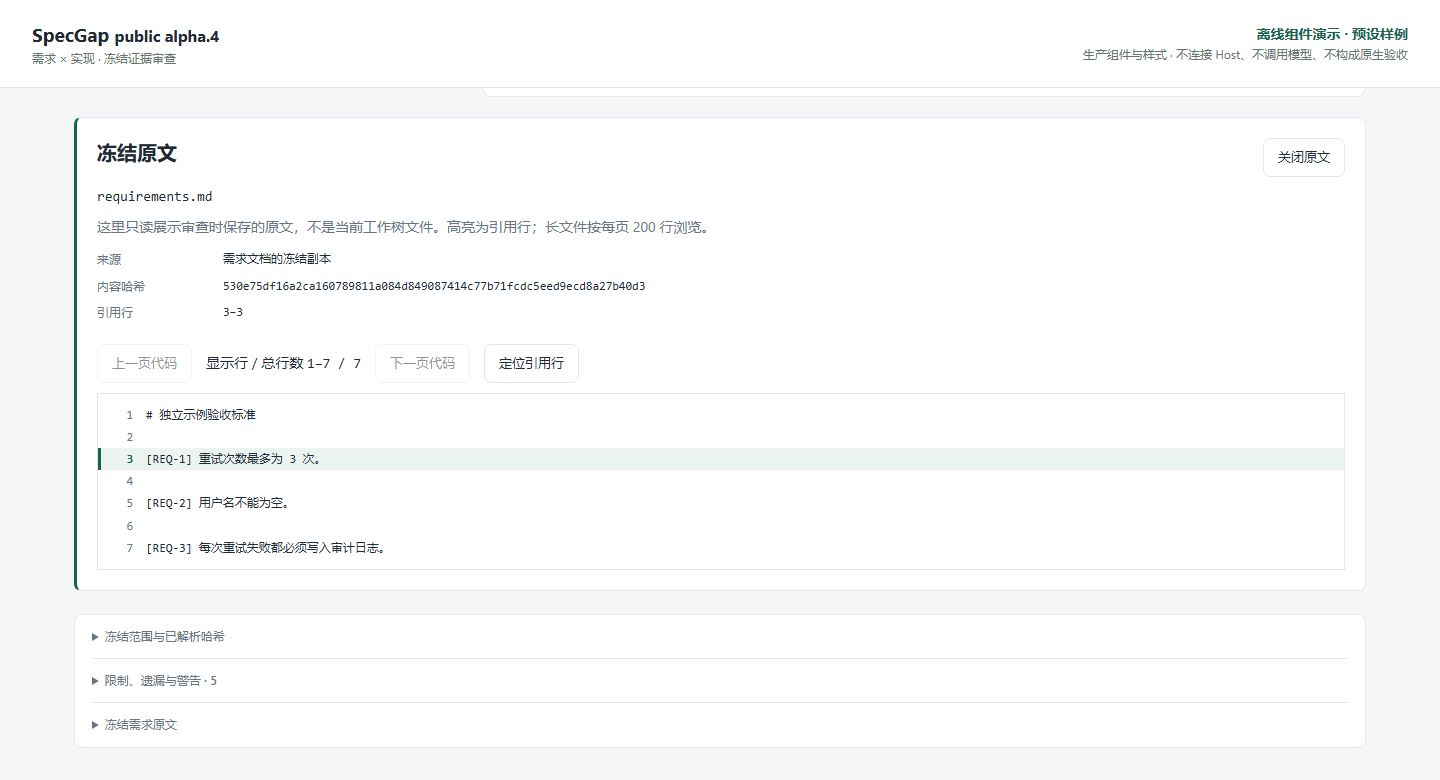
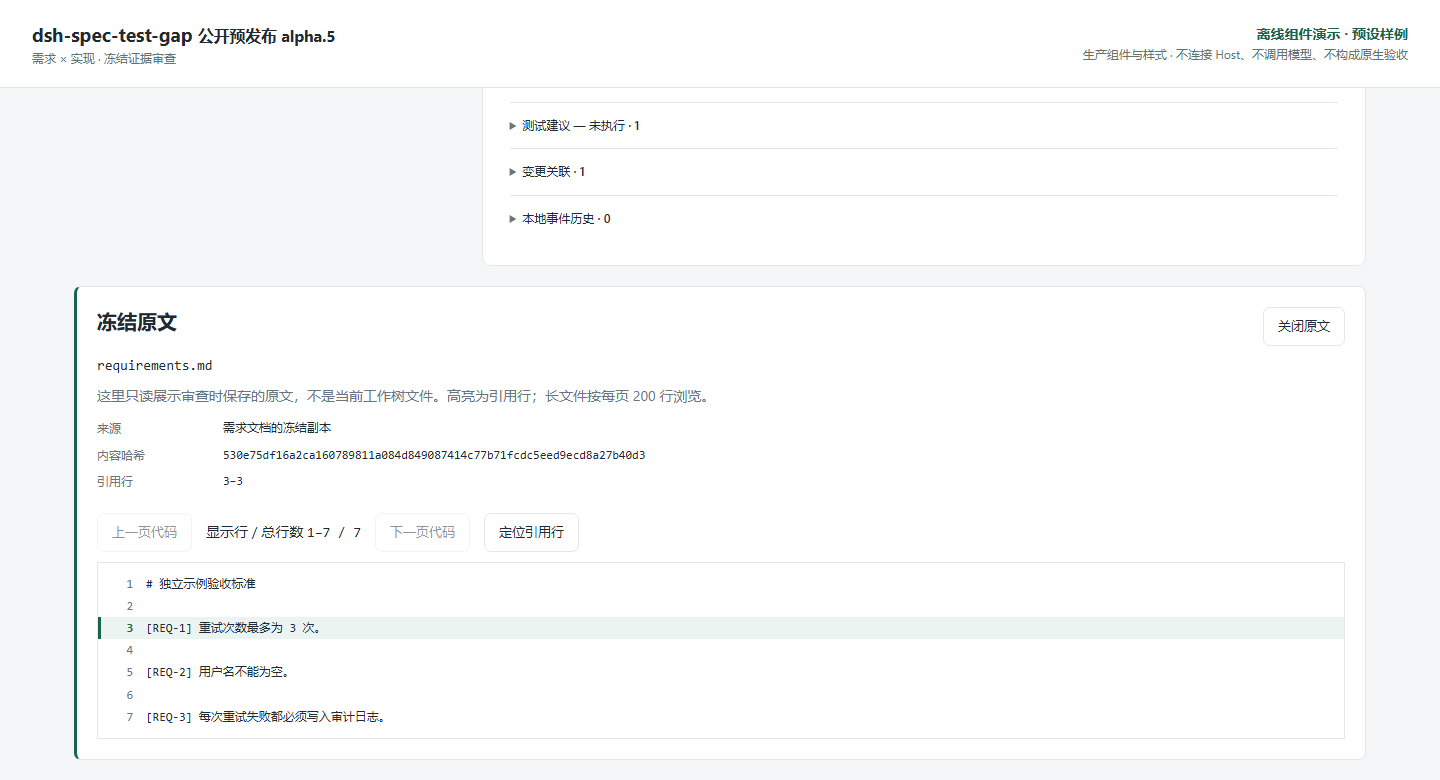
发布 dsh-spec-test-gap 0.2.0-alpha.5：中文文档、截图与 Windows 路径修复

diff --git a/plugins/dsh-specgap/src/client/Workbench.jsx b/plugins/dsh-specgap/src/client/Workbench.jsx
@@ -43,7 +43,7 @@ export function Workbench({t,back,openReport,initialSelection,onSelectionChange}
   const selectionKey=JSON.stringify(state.selection),busy=Object.entries(state.busy).filter(([,v])=>v).map(([k])=>k),m=state.mutation;
   const locked=!!m||state.foreignPending,view=state.view;
   return <section className="specgap" aria-labelledby="specgap-title">
-    <header className="sg-header"><div className="sg-brand"><span className="sg-brand-mark" aria-hidden="true">S</span><div><h1 id="specgap-title">SpecGap</h1><span className="sg-muted">{t('workbenchLabel')}</span></div></div>
+    <header className="sg-header"><div className="sg-brand"><span className="sg-brand-mark" aria-hidden="true">S</span><div><h1 id="specgap-title">{t('panel')}</h1><span className="sg-muted">{t('workbenchLabel')}</span></div></div>
       <div className="sg-header-context"><Field label={t('workspace')}><select value={workspaceId} onChange={e=>{client.select({workspaceId:e.target.value});setPage('new');}}><option value="">{t('choose')}</option>{workspaceId&&!workspace&&<option value={workspaceId}>{workspaceId} · {t('unavailable')}</option>}{data?.workspaces.map(w=><option key={w.id} value={w.id}>{w.title||w.id}</option>)}</select></Field></div>
       <button onClick={back}>{t('back')}</button>
     </header>

diff --git a/tests/test_util.py b/tests/test_util.py
@@ -4,7 +4,7 @@ import unittest
 from pathlib import Path
 
 from specgap.errors import SpecGapError
-from specgap.util import canonical_hash, physical_lines, read_json, safe_text, strict_loads, write_json
+from specgap.util import canonical_hash, physical_lines, read_json, safe_path, safe_text, strict_loads, write_json
 
 
 class UtilTests(unittest.TestCase):
@@ -40,6 +40,20 @@ class UtilTests(unittest.TestCase):
                                ('a\u2028b\u2029c\fd\x85e', ['a\u2028b\u2029c\fd\x85e'])]:
             with self.subTest(text=repr(text)):
                 self.assertEqual(physical_lines(text), expected)
+
+    @unittest.skipUnless(sys.platform == 'win32', 'Windows short-path aliases only')
+    def test_short_path_alias_is_canonical_before_output_boundary_checks(self):
+        import ctypes
+
+        with tempfile.TemporaryDirectory(prefix='specgap-long-path-') as tmp:
+            root = Path(tmp).resolve()
+            buffer = ctypes.create_unicode_buffer(32768)
+            length = ctypes.windll.kernel32.GetShortPathNameW(str(root), buffer, len(buffer))
+            if not length or length >= len(buffer) or Path(buffer.value) == root:
+                self.skipTest('8.3 short-path alias unavailable on this volume')
+            alias = Path(buffer.value)
+            self.assertEqual(safe_path(alias / 'reports' / 'run'), root / 'reports' / 'run')
+            self.assertFalse((root / 'reports').exists())
 
     def test_markup_is_not_executable_or_a_live_link(self):
         result = safe_text('<script>alert(1)</script>\n[click](https://evil.test)\n```\n# fake')

diff --git a/src/specgap/util.py b/src/specgap/util.py
@@ -85,7 +85,9 @@ def safe_path(path) -> Path:
             continue
         if stat.S_ISLNK(info.st_mode) or getattr(info, "st_file_attributes", 0) & 0x400:
             raise SpecGapError("Symlink or reparse-point artifact path is not allowed")
-    return path
+    # Expand Windows 8.3 aliases only after rejecting reparse points; containment
+    # checks must compare canonical paths even when the destination is not created.
+    return path.resolve()
 
 
 def read_bytes(path, max_bytes=MAX_ARTIFACT_BYTES) -> bytes:

diff --git a/README.md b/README.md
@@ -1,20 +1,20 @@
-# SpecGap · 需求与代码双向对照
+# dsh-spec-test-gap · 需求与代码双向对照测试助手
 
 **需求有没有落实？代码是否改变了未被要求的行为？把判断落到可追溯的 Git 证据，再交给人确认。**
 
-SpecGap 是 [DeepSeek Harness（DSH）](https://github.com/deepseek-ai/deepseek-harness) 的原生 QA 工作台，也提供独立 Python CLI。它把独立需求、已提交代码和人工处理记录放进同一次审查，避免只盯着 diff、或把“开发说是有意的”误当成“产品已经批准”。
+dsh-spec-test-gap 是 [DeepSeek Harness（DSH）](https://github.com/deepseek-ai/deepseek-harness) 的原生 QA 工作台，也提供独立 Python CLI。它把独立需求、已提交代码和人工处理记录放进同一次审查，避免只盯着 diff、或把“开发说是有意的”误当成“产品已经批准”。
 
-[下载安装](https://github.com/homerlamlam/specgap/releases/tag/plugin-v0.2.0-alpha.4) · [完整使用指南](<docs/dsh-plugin.zh-CN.md>) · [功能截图](<docs/screenshots.md>) · [技术原理](<docs/architecture.md>) · [验证说明](<docs/verification.md>)
+[预发布下载](https://github.com/homerlamlam/dsh-spec-test-gap/releases/tag/plugin-v0.2.0-alpha.5) · [完整使用指南](<docs/dsh-plugin.zh-CN.md>) · [实际组件离线截图](<docs/screenshots.md>) · [技术原理](<docs/architecture.md>) · [本版验证记录](<docs/verification.md>)
 
-> **当前为实验性预发布：插件 0.2.0-alpha.4，CLI/core 0.1.0。** 可以体验流程，不能当自动发布门禁。离线样例中的 3 个问题是预设示例，不是模型发现；真实项目上的模型准确率、召回率尚未测量。
+> **本次为首次正式公开预发布：插件 dsh-spec-test-gap 0.2.0-alpha.5，CLI/core 仍为 0.1.0。** alpha.4 仅有公开源码标签，无正式 Release。它不是自动测试运行器，不能当自动发布门禁。离线样例中的 3 个问题是预设示例，不是模型发现；真实项目上的模型准确率、召回率尚未测量。
 
 ![发现列表与冻结证据](<docs/images/01-findings-evidence.png>)
 
-*实际生产组件的离线浏览器演示；三个问题均为预设样例，不代表 AI 效果或已登录 DSH 的完整端到端验收。查看[全部截图及边界](<docs/screenshots.md>)。*
+*此图为 0.2.0-alpha.5 实际生产组件的离线浏览器截图；来自离线预设 fixture，三个问题均为预设样例，不代表 AI 效果或已登录 DSH 的完整端到端验收。查看[全部截图及边界](<docs/screenshots.md>)。*
 
 ## 你能用它做什么
 
-| 场景 | SpecGap 的做法 |
+| 场景 | dsh-spec-test-gap 的做法 |
 | --- | --- |
 | 需求写了，但实现可能没改 | 从需求出发检查冻结的 head 上下文，也能引用未改动文件 |
 | 分支改了需求没提的行为 | 从基线到 head 逐项审查变更，追问需求依据或产品意图 |
@@ -35,21 +35,27 @@ SpecGap 是 [DeepSeek Harness（DSH）](https://github.com/deepseek-ai/deepseek-
 | Git | 2.31 或更新版本，可被 DSH 进程找到 |
 | 运行方式 | 本机所有者、已注册的本地工作区；不支持 LiveShare |
 
-1. 到 [Release](https://github.com/homerlamlam/specgap/releases/tag/plugin-v0.2.0-alpha.4) 下载插件安装包和 SHA-256 校验清单。**不需要另装 Python CLI。**
+1. 从[本次预发布 Release](https://github.com/homerlamlam/dsh-spec-test-gap/releases/tag/plugin-v0.2.0-alpha.5) 下载 `dsh-spec-test-gap-0.2.0-alpha.5.tgz` 和 SHA-256 校验清单。标签为 `plugin-v0.2.0-alpha.5`。**不需要另装 Python CLI。**
 2. 校验下载包，确认名称与版本。PowerShell 示例：
 
    ```powershell
-   Get-FileHash -LiteralPath 'C:\Downloads\specgap-dsh-plugin-0.2.0-alpha.4.tgz' -Algorithm SHA256
+   Get-FileHash -LiteralPath 'C:\Downloads\dsh-spec-test-gap-0.2.0-alpha.5.tgz' -Algorithm SHA256
    ```
 
 3. 在现有 DSH 页面左侧进入 **插件 → 添加插件**，在 **包名或地址** 填写下载包在 **DSH Host 所在机器**上的绝对路径，点击 **安装**。
-4. 安装完成后点击 **立即启用**，检查实际版本与警告；刷新同一 DSH 页面，在导航中打开 **SpecGap**。
+4. 安装完成后点击 **立即启用**，检查包名 **dsh-spec-test-gap**、版本 **0.2.0-alpha.5** 与警告；刷新同一 DSH 页面，在导航中打开 **dsh-spec-test-gap**。
 
-不要把仓库首页地址当作可安装包，也不要直接填写 npm 包名：**本次通过 GitHub Release 分发，不声称已发布 npm/PyPI。** 安装影响当前 profile 的全部会话；不应为了安装跳过版本兼容检查。排障、升级和卸载见[完整指南](<docs/dsh-plugin.zh-CN.md>)。
+不要把仓库首页地址当作可安装包，也不要直接填写 npm 包名：**本次通过 GitHub Release 分发，不发布到 npm/PyPI。** 安装影响当前 profile 的全部会话；不应为了安装跳过版本兼容检查。
+
+**从旧版升级：先卸载旧 SpecGap 插件（`@specgap/dsh-plugin`），再安装新版。** 保留 `data/specgap`，不要因更名删除或改名；保留数据不等于完成备份，也不是自动迁移或恢复保证。排障、升级和卸载见[完整指南](<docs/dsh-plugin.zh-CN.md>)。
+
+### 名称与兼容内部标识
+
+公开品牌展示名与插件包名均为 **dsh-spec-test-gap**，中文副标题为 **需求与代码双向对照测试助手**。Python 模块/CLI 命令 `specgap`、源码目录 `plugins/dsh-specgap`、数据目录 `data/specgap` 与 API 命名空间 `specgap` 保留为兼容内部标识，不应按品牌名盲替命令或路径。CLI/core 仍为 **0.1.0**，桥接协议仍为 **1**。
 
 ## 3 分钟体验
 
-1. 在 SpecGap 选择一个已注册工作区，点击 **创建离线样例**。
+1. 在 dsh-spec-test-gap 选择一个已注册工作区，点击 **创建离线样例**。
 2. 查看 3 个预设问题：重试次数与需求冲突、未声明的用户名限制、缺少审计日志实现证据。
 3. 切换需求/变更映射，点击 **查看冻结原文** 或 **查看冻结全文**，核对路径、行号、基线/分支与引文。
 4. 展开人工处理，记录回复；必要时由对应本地声明角色记录决议。插件不会替你执行测试。
@@ -72,8 +78,8 @@ SpecGap 是 [DeepSeek Harness（DSH）](https://github.com/deepseek-ai/deepseek-
 要求 Python 3.11+、Git 2.31+。从源码安装：
 
 ```sh
-git clone https://github.com/homerlamlam/specgap.git
-cd specgap
+git clone https://github.com/homerlamlam/dsh-spec-test-gap.git
+cd dsh-spec-test-gap
 python -m pip install -e .
 python -m specgap demo --out ../specgap-demo
 python -m specgap status --run ../specgap-demo/run
@@ -100,11 +106,11 @@ python -m specgap report --run ../specgap-demo/run
 - 只读已提交对象，不 checkout、不 fetch、不执行被审项目代码/测试，也不自动修复或合并。
 - 本地角色是自声明，不是企业身份认证；哈希链用于发现完整性变化，不保证抵抗本机管理员篡改。
 - 数据与准确模型请求审计保存在 profile 的插件私有存储中，不是原生 Session 日志。报告和截图可能包含源码，分享前自行检查。
-- 当前验证分层、实际结果和未验证范围见[验证说明](<docs/verification.md>)。不要把单元测试、包校验或截图当成模型效果证明。
+- [本版验证记录](<docs/verification.md>)列出本次执行结果与未验证范围；[实际组件离线截图](<docs/screenshots.md>)不替代已登录 DSH 的完整端到端验收。不要把单元测试、包校验或截图当成模型效果证明。
 
 ## 开发与反馈
 
-[参与贡献](<CONTRIBUTING.md>) · [变更记录](<CHANGELOG.md>) · [安全报告](<SECURITY.md>) · [问题反馈](https://github.com/homerlamlam/specgap/issues)
+[参与贡献](<CONTRIBUTING.md>) · [变更记录](<CHANGELOG.md>) · [安全报告](<SECURITY.md>) · [问题反馈](https://github.com/homerlamlam/dsh-spec-test-gap/issues)
 
 采用 [MIT 许可](<LICENSE>)。独立实现；问题研究参考过 [cc-rsg](https://github.com/daishir0/cc-rsg)，未复制或内嵌其源码，见[来源说明](<docs/provenance.md>)。
 

diff --git a/docs/dsh-plugin.zh-CN.md b/docs/dsh-plugin.zh-CN.md
@@ -1,14 +1,18 @@
-# SpecGap DSH 插件 · 安装与使用
+# dsh-spec-test-gap DSH 插件 · 安装与使用
 
-[项目首页](https://github.com/homerlamlam/specgap) · [验证与手工验收](<dsh-plugin-verification.md>)
+**需求与代码双向对照测试助手**
 
-候选版本 **@specgap/dsh-plugin 0.2.0-alpha.4** 增加需求出处与冻结代码阅读，仍是本地实验版。
+[项目首页](https://github.com/homerlamlam/dsh-spec-test-gap) · [验证与手工验收](<dsh-plugin-verification.md>)
+
+**dsh-spec-test-gap 0.2.0-alpha.5** 是首次正式公开预发布：公开仓库、插件包与界面展示名统一更名，保留需求出处与冻结代码阅读等既有能力，仍是本地实验版。alpha.4 仅有公开源码标签，无正式 Release，未公开分发对应安装包。
 
 **查看来源：** 问题的需求关联、需求映射与变更映射均显示原文路径/行号，点击「查看冻结原文」可定位高亮。代码证据可展开前后各十行，或点击「查看冻结全文」按每页 200 行浏览；「定位引用行」返回引用，「关闭原文」回到入口。文件来自审查冻结副本，展示对应基线/分支的提交与内容哈希，不读取当前工作树，也不伪造远程链接。旧记录只要包含完整来源即可使用；来源缺失或不匹配时保留引用并提示。链接仅用于审查内部导航，不是跨会话分享地址。
 
 新增示例的需求、问题、测试建议与演示回复，以及报告标题、状态和说明统一中文。模型请求明确约束人类可读字段使用简体中文，但未实际调用提供方验证语言遵循效果。代码引用、机器字段及历史记录不翻译覆盖；需要保留的非中文原文在代码块中展示。升级后重新创建离线示例即可体验，不会自动重写旧示例。
 
-独立 Python CLI 仍为 **0.1.0**，协议仍为 **1**。这是 GitHub 实验性预发布，不是自动发布批准。源码/打包测试、实际界面操作与模型有效性是不同的验证层次；公开结果见[验证说明](https://github.com/homerlamlam/specgap/blob/main/docs/verification.md)。
+独立 Python CLI/core 仍为 **0.1.0**，协议仍为 **1**。Python 模块/CLI 命令 `specgap`、源码目录 `plugins/dsh-specgap`、数据/API 命名空间 `specgap` 是保留的兼容内部标识，不应替换为公开品牌名。这是 GitHub 实验性预发布，不是自动测试运行器或发布批准。
+
+源码/打包测试、实际界面操作与模型有效性是不同的验证层次；[本版验证记录](https://github.com/homerlamlam/dsh-spec-test-gap/blob/main/docs/verification.md)列出本次实际结果与未验证范围。[实际生产组件离线截图](https://github.com/homerlamlam/dsh-spec-test-gap/blob/main/docs/screenshots.md)来自本版离线预设 fixture，不是 AI 发现或已登录 DSH 的完整端到端验收。
 
 ## 环境、安装与升级
 
@@ -19,22 +23,24 @@
 
 ### 从 GitHub Release 安装
 
-1. 在 [0.2.0-alpha.4 预发布](https://github.com/homerlamlam/specgap/releases/tag/plugin-v0.2.0-alpha.4) 下载插件 tgz 与 SHA-256 清单，核对文件摘要。
+1. 从 [0.2.0-alpha.5 预发布](https://github.com/homerlamlam/dsh-spec-test-gap/releases/tag/plugin-v0.2.0-alpha.5) 下载 `dsh-spec-test-gap-0.2.0-alpha.5.tgz` 与 SHA-256 清单，核对文件摘要。标签为 `plugin-v0.2.0-alpha.5`。
 2. 打开现有 DSH GUI 左侧 **插件 → 添加插件**，在 **包名或地址** 输入包在 **Host 本机**的绝对路径，不输入 shell 命令或额外引号。
-3. 点击 **安装**，完成后核对名称 **@specgap/dsh-plugin**、版本 **0.2.0-alpha.4** 与兼容要求，再点 **立即启用**。只关闭对话框会留下已安装但未启用的包。
-4. 检查警告及实际激活结果，按宿主 `application`/`nextStep` 指示处理。刷新**同一已认证页面**，在导航打开 **SpecGap**，页面标题为 **SpecGap · 证据工作台**。
+3. 点击 **安装**，完成后核对名称 **dsh-spec-test-gap**、版本 **0.2.0-alpha.5** 与兼容要求，再点 **立即启用**。只关闭对话框会留下已安装但未启用的包。
+4. 检查警告及实际激活结果，按宿主 `application`/`nextStep` 指示处理。刷新**同一已认证页面**，在导航打开 **dsh-spec-test-gap**；公开展示名为 **dsh-spec-test-gap**，中文副标题为 **需求与代码双向对照测试助手**。
 
 PowerShell 校验示例（替换成自己的下载位置）：
 
 ```powershell
-Get-FileHash -LiteralPath 'C:\Downloads\specgap-dsh-plugin-0.2.0-alpha.4.tgz' -Algorithm SHA256
+Get-FileHash -LiteralPath 'C:\Downloads\dsh-spec-test-gap-0.2.0-alpha.5.tgz' -Algorithm SHA256
 ```
 
 本次不通过 npm/PyPI 发布；不要把源码仓库根地址或未发布的 npm 名称作为安装地址。不要豁免版本兼容限制，也不要批准意外安装脚本。安装影响**当前 profile 的所有会话**。
 
 ### 升级、禁用与卸载
 
-第三方本地包在当前 DSH UI 中通过**卸载旧包，再安装新包**升级；本地 tgz 没有注册表版本更新入口。先保护已有记录，按上述步骤安装新的审查包；保留旧数据不等于承诺自动迁移。
+第三方本地包在当前 DSH UI 中通过**卸载旧包，再安装新包**升级；本地 tgz 没有注册表版本更新入口。先保护已有记录，卸载旧 SpecGap 插件（`@specgap/dsh-plugin`），再按上述步骤安装 `dsh-spec-test-gap`，不要把新旧插件同时启用并指向同一数据。
+
+数据目录仍为 `data/specgap`，不要因更名删除、改名或自动清理。保留目录不等于完成备份，也不是自动迁移、完整恢复或升级兼容性的保证；报告 JSON 不是可导入备份。
 
 禁用/卸载不保证删除持久运行/审计记录，也不能撤回已发模型请求。不要自动清理 profile 数据。仅在宿主要求并经用户同意后重启；无需启动替代服务。
 
@@ -85,4 +91,4 @@ Get-FileHash -LiteralPath 'C:\Downloads\specgap-dsh-plugin-0.2.0-alpha.4.tgz' -A
 
 ## 当前版本摘要
 
-**0.2.0-alpha.4** 增加冻结需求/代码原文定位和全文阅读；包含 alpha.3 的中文内容与报告，以及 alpha.2 的三步准备、问题优先审查和原生报告侧栏。保留冻结对象、逐字证据校验、本地角色、原请求恢复、逐次外发同意与私有审计。CLI/core 与协议版本不变。完整[变更记录](https://github.com/homerlamlam/specgap/blob/main/CHANGELOG.md)。
+**0.2.0-alpha.5** 是首次正式公开预发布，公开仓库、插件包与界面展示名统一为 **dsh-spec-test-gap**；修复 Windows 8.3 短路径别名与长路径形式比较不一致导致的仓库内输出边界绕过，并增加回归。延续 alpha.4 的冻结需求/代码原文定位和全文阅读、alpha.3 的中文内容与报告，以及 alpha.2 的三步准备、问题优先审查和原生报告侧栏。保留冻结对象、逐字证据校验、本地角色、原请求恢复、逐次外发同意与私有审计；CLI/core **0.1.0** 与协议 **1** 不变。完整[变更记录](https://github.com/homerlamlam/dsh-spec-test-gap/blob/main/CHANGELOG.md)与[本版验证记录](https://github.com/homerlamlam/dsh-spec-test-gap/blob/main/docs/verification.md)分别记录版本变化与实际验证范围。

diff --git a/docs/dsh-plugin-verification.md b/docs/dsh-plugin-verification.md
@@ -1,8 +1,10 @@
-# 插件复现与分发验收
+# dsh-spec-test-gap 插件复现与分发验收
 
-适用 **@specgap/dsh-plugin 0.2.0-alpha.4**；精确支持 DSH **0.2.2-rc.1**。CLI/core 0.1.0、桥接协议 1。
+适用 **dsh-spec-test-gap 0.2.0-alpha.5**（需求与代码双向对照测试助手，首次正式公开预发布）；精确支持 DSH **0.2.2-rc.1**。CLI/core 仍为 0.1.0、桥接协议仍为 1。
 
-[使用指南](<dsh-plugin.zh-CN.md>) · [本次公开验证结果](https://github.com/homerlamlam/specgap/blob/main/docs/verification.md)
+[使用指南](<dsh-plugin.zh-CN.md>) · [本版验证记录](https://github.com/homerlamlam/dsh-spec-test-gap/blob/main/docs/verification.md)
+
+本页提供可重复执行的复现与验收流程，实际执行结果、包摘要与未验证范围以本版验证记录为准。[实际生产组件离线截图](https://github.com/homerlamlam/dsh-spec-test-gap/blob/main/docs/screenshots.md)使用本版预设 fixture，不是 AI 发现或已登录 DSH 的完整端到端验收。alpha.4 仅有公开源码标签，无正式 Release；本版验证独立记录，不沿用旧版测试数量或包摘要。
 
 ## 证据层次
 
@@ -11,6 +13,7 @@
 | Python 核心与桥接测试 | 固定输入下的核心语义、文件/协议边界 | 模型准确率、浏览器可用性 |
 | Node Host/Client 测试 | 状态、渲染、恢复、真实原生模块契约 | 全部浏览器交互或 HTTP 登录认证 |
 | 独立构建、打包、解包、桥接样例 | 被测环境中分发自包含、精确文件清单与核心一致性 | 其他平台、已安装 GUI 或模型效果 |
+| 实际生产组件离线截图 | 预设夹具中的组件布局与被展示的交互 | 已登录 DSH 的安装、原生 Host/侧栏或模型请求验收 |
 | 实际已登录界面检查 | 被操作步骤在该版本/环境的实际表现 | 未操作功能、所有浏览器或模型效果 |
 | 实际提供方与语义评测 | 需要另行设计和执行 | 不可用预设样例或合法 JSON 替代 |
 
@@ -20,7 +23,11 @@
 
 准备 Python >=3.11、Git >=2.31、Node >=24.9.0，并安装精确兼容的 DSH。构建锁定 esbuild 0.28.2。安装开发依赖可能运行其安装脚本；已安装插件不会执行此开发步骤。
 
+Python 模块/CLI 命令 `specgap`、源码目录 `plugins/dsh-specgap`、数据/API 命名空间 `specgap` 保留为兼容内部标识；不要因品牌更名改写下面的脚本路径或 `SPECGAP_*` 环境变量。
+
 ```sh
+git clone https://github.com/homerlamlam/dsh-spec-test-gap.git
+cd dsh-spec-test-gap
 npm ci --prefix plugins/dsh-specgap
 ```
 
@@ -57,13 +64,13 @@ $env:PYTHONIOENCODING = 'utf-8'
 
 包包含 Host/Client 构建、桥接与核心、语言包、图标、Cordis 配置、许可证、说明和三份指南；不包含依赖目录、源码测试、源码脚本、截图或运行数据。不要直接上传共享开发目录中的旧 tgz。
 
-**原始验收日志/manifest 含本机绝对路径，不应整体作为 Release 附件上传。** 公共附件仅使用经过单独检查的安装包、文件摘要和脱敏结果说明。文件哈希证明内容一致，不是作者签名。
+**原始验收日志/manifest 含本机绝对路径，不应整体作为 Release 附件上传。** 本次预发布标签为 `plugin-v0.2.0-alpha.5`，公共安装附件名为 `dsh-spec-test-gap-0.2.0-alpha.5.tgz`，仅通过 GitHub Release 分发，不发布到 npm/PyPI。发布验收须单独检查包内名称、版本、文件摘要与脱敏结果；重打包后必须重新计算摘要，不得沿用旧包哈希。本次产物摘要见本版验证记录与 Release 校验清单。文件哈希证明内容一致，不是作者签名。
 
 ## 实际 GUI 手工检查
 
 使用现有、已登录的 DSH 页面；不启动替代服务或绕过认证。记录实际安装版本、操作步骤和观察，不伪造“已验证”勾选。
 
-1. 确认插件安装且启用，刷新后出现 SpecGap 入口。
+1. 按 **插件 → 添加插件 → 包名或地址 → 安装 → 立即启用** 安装并启用经校验的本地包，核对包名 `dsh-spec-test-gap`、版本 `0.2.0-alpha.5`；刷新后检查 **dsh-spec-test-gap** 入口与中文副标题 **需求与代码双向对照测试助手**。
 2. 创建离线样例：3 个预设问题，问题优先布局，需求/变更映射可切换。
 3. 需求关联打开冻结原文，核对路径、行号和高亮，关闭后返回入口。
 4. 代码前后文与冻结全文显示正确基线/分支；分页、定位引用、关闭与焦点恢复可操作。

diff --git a/CHANGELOG.md b/CHANGELOG.md
@@ -1,8 +1,21 @@
 # 变更记录
 
-## 插件 0.2.0-alpha.4 — 首次公开预发布（2026-11-09）
+## 插件 0.2.0-alpha.5 — 品牌更名与首次正式公开预发布（2026-11-09）
 
-兼容 **DSH 0.2.2-rc.1**；Node >=24.9.0、Python >=3.11、Git >=2.31。CLI/core 仍为 0.1.0，桥接协议仍为 1。标签使用 `plugin-v0.2.0-alpha.4`，避免与 CLI 版本混淆。
+- 公开品牌展示名与插件包名统一为 **dsh-spec-test-gap**，中文副标题为 **需求与代码双向对照测试助手**；公开仓库改为 [homerlamlam/dsh-spec-test-gap](https://github.com/homerlamlam/dsh-spec-test-gap)。
+- 本次预发布使用标签 `plugin-v0.2.0-alpha.5`，通过 GitHub Release 分发 `dsh-spec-test-gap-0.2.0-alpha.5.tgz` 与 SHA-256 清单；不发布到 npm/PyPI。
+- 保留 Python 模块/CLI 命令 `specgap`、源码目录 `plugins/dsh-specgap`、数据/API 命名空间 `specgap` 作为兼容内部标识。CLI/core 仍为 **0.1.0**，桥接协议仍为 **1**。
+- 精确兼容 **DSH 0.2.2-rc.1**；Node >=24.9.0、Python >=3.11、Git >=2.31；继续采用 [MIT 许可](<LICENSE>)。
+- 安装沿用 **插件 → 添加插件 → 包名或地址 → 安装 → 立即启用**。从旧版升级时先卸载旧 SpecGap 插件（`@specgap/dsh-plugin`），再安装新版；保留 `data/specgap` 不等于备份、自动迁移或恢复保证。
+- 修复 `safe_path` 在 Windows 上因 8.3 短路径别名与长路径形式比较不一致导致的仓库内输出边界绕过：拒绝符号链接与重解析点后统一规范化路径，再用于边界比较，覆盖尚未创建的输出子路径。
+- 新增 Windows 短路径别名规范化回归；该回归在修复前失败、修复后通过。全量执行结果与覆盖范围见[本版验证记录](<docs/verification.md>)。
+- 延续既有证据与人工处理边界：不是自动测试运行器，不提供发布批准；离线预设 fixture 与截图不能证明模型效果。
+
+[本版验证记录](<docs/verification.md>)按层次列出实际结果与未验证项；[实际生产组件离线截图](<docs/screenshots.md>)展示本版预设样例，不替代已登录 DSH 的完整端到端验收。
+
+## 插件 0.2.0-alpha.4 — 初始公开源码标签（2026-11-09，无正式 Release）
+
+公开源码标签为 `plugin-v0.2.0-alpha.4`；无正式 Release，也未通过该标签公开分发安装包。兼容 **DSH 0.2.2-rc.1**；Node >=24.9.0、Python >=3.11、Git >=2.31。CLI/core 为 0.1.0，桥接协议为 1。以下记录该源码标签包含的能力。
 
 - 需求出处可打开冻结原文，显示路径、行号与定位高亮。
 - 代码证据可查看前后各 10 行，或按每页 200 行浏览冻结全文并返回引用行；不把当前工作树冒充审查时版本。
@@ -10,7 +23,7 @@
 - 原生会话右侧栏 Markdown 阅读/源码、JSON 树/检索、同步状态及可选下载。
 - 中文样例、问题说明、回复和报告；模型请求约束人类可读内容使用简体中文，保留代码、机器字段和历史原文。
 - 明确模型路由、预算、准确请求预览及单次确认；私有逐次请求审计，无自动付费重试。
-- 完善中文安装说明、技术介绍、功能截图及分层验证说明，通过 GitHub Release 提供本地安装包与校验清单。
+- 完善中文安装说明、技术介绍、功能截图及分层验证说明；本地安装包与校验清单仅用于验证，未作为正式 Release 公开分发。
 
 ### 已知限制
 

diff --git a/SECURITY.md b/SECURITY.md
@@ -1,10 +1,10 @@
-# 安全说明与信任边界
+# dsh-spec-test-gap 安全说明与信任边界
 
 ## 适用范围与漏洞反馈
 
-插件 **0.2.0-alpha.4**、CLI/core **0.1.0** 均为实验性本机工具，不是安全认证或发布门禁。
+**dsh-spec-test-gap · 需求与代码双向对照测试助手** 本次预发布为插件 **0.2.0-alpha.5**；CLI/core 仍为 **0.1.0**。它是实验性本机工具，不是自动测试运行器、安全认证或发布门禁；插件精确兼容 **DSH 0.2.2-rc.1**。
 
-请优先使用仓库的 [私密漏洞报告入口](https://github.com/homerlamlam/specgap/security/advisories/new)。若入口不可用，请通过维护者已有的私密联系方式协调；**不要**将密钥、私有代码、客户证据或可利用漏洞细节提交到公开 Issue。此项目不承诺固定响应时限。
+请优先使用仓库的 [私密漏洞报告入口](https://github.com/homerlamlam/dsh-spec-test-gap/security/advisories/new)。若入口未启用或不可用，请通过维护者已有的私密联系方式协调；**不要**将密钥、私有代码、客户证据或可利用漏洞细节提交到公开 Issue。此项目不承诺固定响应时限。
 
 ## 主要边界
 
@@ -22,7 +22,8 @@
 ## 使用前必须知道
 
 - **插件信任边界覆盖当前 DSH profile 的所有会话。** 仅适用于本机所有者和已注册工作区，不支持 LiveShare；知道 run ID 不代表拥有访问权限。
-- 插件数据位于 profile 自有的工作区外存储。准确模型请求保存在插件私有逐次审计记录，**不是原生 Session 日志**。不要把该存储的祖先目录注册成被审工作区。
+- 插件数据仍位于 profile 自有的 `data/specgap` 工作区外存储；`specgap` 是保留的兼容内部标识，数据/API 命名空间、Python 模块和 CLI 命令不随公开品牌更名。准确模型请求保存在插件私有逐次审计记录，**不是原生 Session 日志**。不要把该存储的祖先目录注册成被审工作区。
+- 升级先卸载旧 SpecGap 插件（`@specgap/dsh-plugin`），再安装 `dsh-spec-test-gap`。不要自动删除或改名 `data/specgap`；保留该目录不等于完成备份，也不保证自动迁移或恢复。卸载不能撤回已外发请求。
 - API key 不由插件写进审查材料；CLI 从指定环境变量读取 key。不要把密钥放进命令行历史、源码、需求或附件。
 - 外发去除了本地仓库/需求路径元数据，但源码、相对路径、分支名及文本中嵌入的路径仍可能敏感。提供方会收到准确预览中的材料；保留策略取决于所选提供方。
 - 源码、注释、需求和模型输出均不可信。提示词不能消除提示注入风险；插件不执行模型提供的工具调用。
@@ -34,4 +35,4 @@
 
 ## 不承诺的能力
 
-企业身份审批、对恶意管理员防篡改、托管多人执行、自动修复、自动合并、形式化正确性、模型准确率或发布批准。详见[验证说明](<docs/verification.md>)。
+企业身份审批、对恶意管理员防篡改、托管多人执行、自动修复、自动合并、形式化正确性、模型准确率或发布批准。实际执行结果与未验证范围见[本版验证记录](<docs/verification.md>)；实际生产组件的离线预设 fixture 截图不是已登录 DSH 的完整端到端验收，测试与截图也不构成安全认证。

diff --git a/plugins/dsh-specgap/README.md b/plugins/dsh-specgap/README.md
@@ -1,14 +1,16 @@
-# SpecGap · 需求与代码双向对照
+# dsh-spec-test-gap · 需求与代码双向对照测试助手
 
-**@specgap/dsh-plugin 0.2.0-alpha.4 · 实验性预发布**
+**dsh-spec-test-gap 0.2.0-alpha.5 · 首次正式公开预发布**
 
-原生 QA 证据工作台：冻结需求与 Git 实现，对照需求是否落实、变更是否有依据，再分别记录人工回复、决议与复验。不是自动发布门禁。
+原生 QA 证据工作台：冻结需求与 Git 实现，对照需求是否落实、变更是否有依据，再分别记录人工回复、决议与复验。不是自动测试运行器，也不是自动发布门禁。
 
 ## 环境与安装
 
 精确支持 **DSH 0.2.2-rc.1**；Node >=24.9.0、Python >=3.11、Git >=2.31。仅面向本机所有者和已注册工作区，无运行时第三方包依赖，内嵌 MIT Python core 0.1.0 / 协议 1。
 
-在 [GitHub Release](https://github.com/homerlamlam/specgap/releases/tag/plugin-v0.2.0-alpha.4) 下载并校验本地 tgz，然后在 DSH **插件 → 添加插件 → 包名或地址** 填写 Host 本机绝对路径，点击 **安装 → 立即启用**，刷新同一页面后打开 **SpecGap**。本次不是 npm 发布，不要把仓库首页当安装包。
+从[本次预发布 Release](https://github.com/homerlamlam/dsh-spec-test-gap/releases/tag/plugin-v0.2.0-alpha.5) 下载 `dsh-spec-test-gap-0.2.0-alpha.5.tgz` 并按 SHA-256 清单校验。然后在 DSH **插件 → 添加插件 → 包名或地址** 填写 Host 本机绝对路径，点击 **安装 → 立即启用**，核对包名与版本，刷新同一页面后打开 **dsh-spec-test-gap**。标签为 `plugin-v0.2.0-alpha.5`；本次不发布到 npm/PyPI，不要把仓库首页或 npm 包名当安装地址。
+
+从旧版升级时，先卸载旧 SpecGap 插件（`@specgap/dsh-plugin`），再安装新版；保留 `data/specgap`，但这不等于备份、自动迁移或恢复保证。Python 模块/CLI 命令 `specgap`、源码目录 `plugins/dsh-specgap`、数据/API 命名空间 `specgap` 都是兼容内部标识，不随品牌更名。CLI/core 仍为 0.1.0。
 
 ## 先试离线样例
 
@@ -20,7 +22,7 @@
 - 在原生会话右侧栏阅读 Markdown / 检索 JSON，下载不是前提。
 - 模型分析需单独预览准确请求、路由和预算，再确认一次尝试；没有自动付费重试。
 
-完整指南与截图见[公开项目文档](https://github.com/homerlamlam/specgap/blob/main/docs/dsh-plugin.zh-CN.md)。安装包内也包含中文使用及复现指南。
+完整指南见[公开项目文档](https://github.com/homerlamlam/dsh-spec-test-gap/blob/main/docs/dsh-plugin.zh-CN.md)，安装包内也包含中文使用及复现指南。[本版验证记录](https://github.com/homerlamlam/dsh-spec-test-gap/blob/main/docs/verification.md)列出实际结果与未验证范围；[实际生产组件离线截图](https://github.com/homerlamlam/dsh-spec-test-gap/blob/main/docs/screenshots.md)来自本版预设 fixture，不是 AI 发现或已登录 DSH 的完整端到端验收。alpha.4 仅有公开源码标签，无正式 Release。
 
 准确模型请求留存在插件私有逐次审计中，**不是原生 Session 日志**。本地角色不是企业认证；插件不执行被审项目测试。引用逐字正确不代表判断正确，真实模型效果未测量。
 

diff --git a/CONTRIBUTING.md b/CONTRIBUTING.md
@@ -1,12 +1,14 @@
-# 参与贡献
+# 参与贡献：dsh-spec-test-gap
 
-欢迎改进证据质量和人工审查效率，不要用更多“通过”标签掩盖覆盖限制。
+**需求与代码双向对照测试助手**。欢迎改进证据质量和人工审查效率，不要用更多“通过”标签掩盖覆盖限制。项目采用 [MIT 许可](<LICENSE>)；它不是自动测试运行器，也不提供发布批准。
 
 ## 源码开发
 
-Python 3.11+、Git 2.31+；插件另需 Node 24.9.0+ 和精确兼容的 DSH 0.2.2-rc.1。
+Python 3.11+、Git 2.31+；插件另需 Node 24.9.0+ 和精确兼容的 DSH 0.2.2-rc.1。以下是开发者自行复现的命令；本次执行结果与未验证范围见[本版验证记录](<docs/verification.md>)。
 
 ```sh
+git clone https://github.com/homerlamlam/dsh-spec-test-gap.git
+cd dsh-spec-test-gap
 python -m pip install -e .
 python -m unittest discover -s tests -v
 python -m specgap demo --out ../specgap-dev-demo
@@ -14,9 +16,13 @@ npm ci --prefix plugins/dsh-specgap
 node plugins/dsh-specgap/scripts/build.mjs
 ```
 
+仓库名与公开插件包名均为 `dsh-spec-test-gap`；Python 模块/CLI 命令 `specgap`、源码目录 `plugins/dsh-specgap`、数据/API 命名空间 `specgap` 是兼容内部标识，以上命令与路径应保留。CLI/core 仍为 0.1.0，插件本次预发布版本为 0.2.0-alpha.5。
+
 样例和导出目录必须是新目录。开发依赖安装可能运行 esbuild 安装脚本；已安装插件本身不下载工具或依赖。插件的完整 Node/桥接测试需要真实 DSH 原生模块和显式工具路径，详见[复现与打包指南](<docs/dsh-plugin-verification.md>)。
 
-不要在共享生成目录被测试读取时同时构建。发布包必须使用独立顺序打包验收，不直接上传旧 build 或任意 npm pack 结果。当前[CI](<.github/workflows/ci.yml>)只配置核心 Python 的 Ubuntu/Windows 矩阵，不覆盖全部插件原生行为。
+不要在共享生成目录被测试读取时同时构建。发布包必须使用独立顺序打包验收，不直接上传旧 build 或任意 npm pack 结果。当前[CI](<.github/workflows/ci.yml>)只配置核心 Python 的 Ubuntu/Windows 矩阵，不覆盖全部插件原生行为；实际运行状态见 [Actions](https://github.com/homerlamlam/dsh-spec-test-gap/actions)，存在配置不等于运行通过。
+
+本次为首次正式公开预发布，使用标签 `plugin-v0.2.0-alpha.5` 和附件 `dsh-spec-test-gap-0.2.0-alpha.5.tgz`；通过 GitHub Release 分发，不发布到 npm/PyPI。alpha.4 仅有公开源码标签，无正式 Release。[本版验证记录](<docs/verification.md>)与[实际组件离线截图](<docs/screenshots.md>)分别说明执行结果与预设样例展示边界；截图不能替代已登录 DSH 的完整端到端验收。
 
 ## 修改约束
 

diff --git a/docs/provenance.md b/docs/provenance.md
@@ -1,11 +1,13 @@
 # 来源与项目身份
 
-SpecGap 是独立实现。问题研究参考过 [cc-rsg](https://github.com/daishir0/cc-rsg) 的提交 `a15fef37ae8a06d87da2ee3052bbd341a7e15874`（MIT），尤其关注候选问题、可核对证据、实际决议与验证行为之间的区别。
+dsh-spec-test-gap 是独立实现。问题研究参考过 [cc-rsg](https://github.com/daishir0/cc-rsg) 的提交 `a15fef37ae8a06d87da2ee3052bbd341a7e15874`（MIT），尤其关注候选问题、可核对证据、实际决议与验证行为之间的区别。
 
 本分发没有内嵌 cc-rsg 的源码、包、提示词或资产，不是其 fork、受其背书的后继项目，也不声称通过端到端基准证明优于该项目。先前研究不是对上游最新版本的全面评价。
 
-项目实现与合成夹具由 SpecGap 编写，使用 AI 辅助，采用 [MIT 许可](<../LICENSE>)。样例与测试数据为合成材料。
+项目实现与合成夹具由 dsh-spec-test-gap 编写，使用 AI 辅助，采用 [MIT 许可](<../LICENSE>)。样例与测试数据为合成材料。
 
 核心运行依赖为 Python 标准库和外部 Git；CLI 使用 setuptools 构建。插件另依赖受支持的 DSH/Node 运行环境，构建工具为 esbuild；没有新增运行时第三方 npm/Python 依赖。
 
-公开仓库为 [homerlamlam/specgap](https://github.com/homerlamlam/specgap)。本次通过 GitHub 分发安装包，不声称已完成 npm/PyPI 发布或商标清查。通用贡献者名称不代表企业身份或背书。
+公开品牌展示名与插件包名均为 **dsh-spec-test-gap**，中文副标题为 **需求与代码双向对照测试助手**；公开仓库为 [homerlamlam/dsh-spec-test-gap](https://github.com/homerlamlam/dsh-spec-test-gap)。首次正式公开预发布 **0.2.0-alpha.5** 使用标签 `plugin-v0.2.0-alpha.5`，通过 GitHub Release 分发 `dsh-spec-test-gap-0.2.0-alpha.5.tgz`。alpha.4 仅有公开源码标签，无正式 Release。
+
+Python 模块/CLI 命令 `specgap`、源码目录 `plugins/dsh-specgap`、数据/API 命名空间 `specgap` 是保留的兼容内部标识，CLI/core 仍为 **0.1.0**、桥接协议仍为 **1**；并非遗漏更名。本次不发布到 npm/PyPI。项目不是自动测试运行器，不提供发布批准，也不声称已完成商标清查。通用贡献者名称不代表企业身份或背书。
